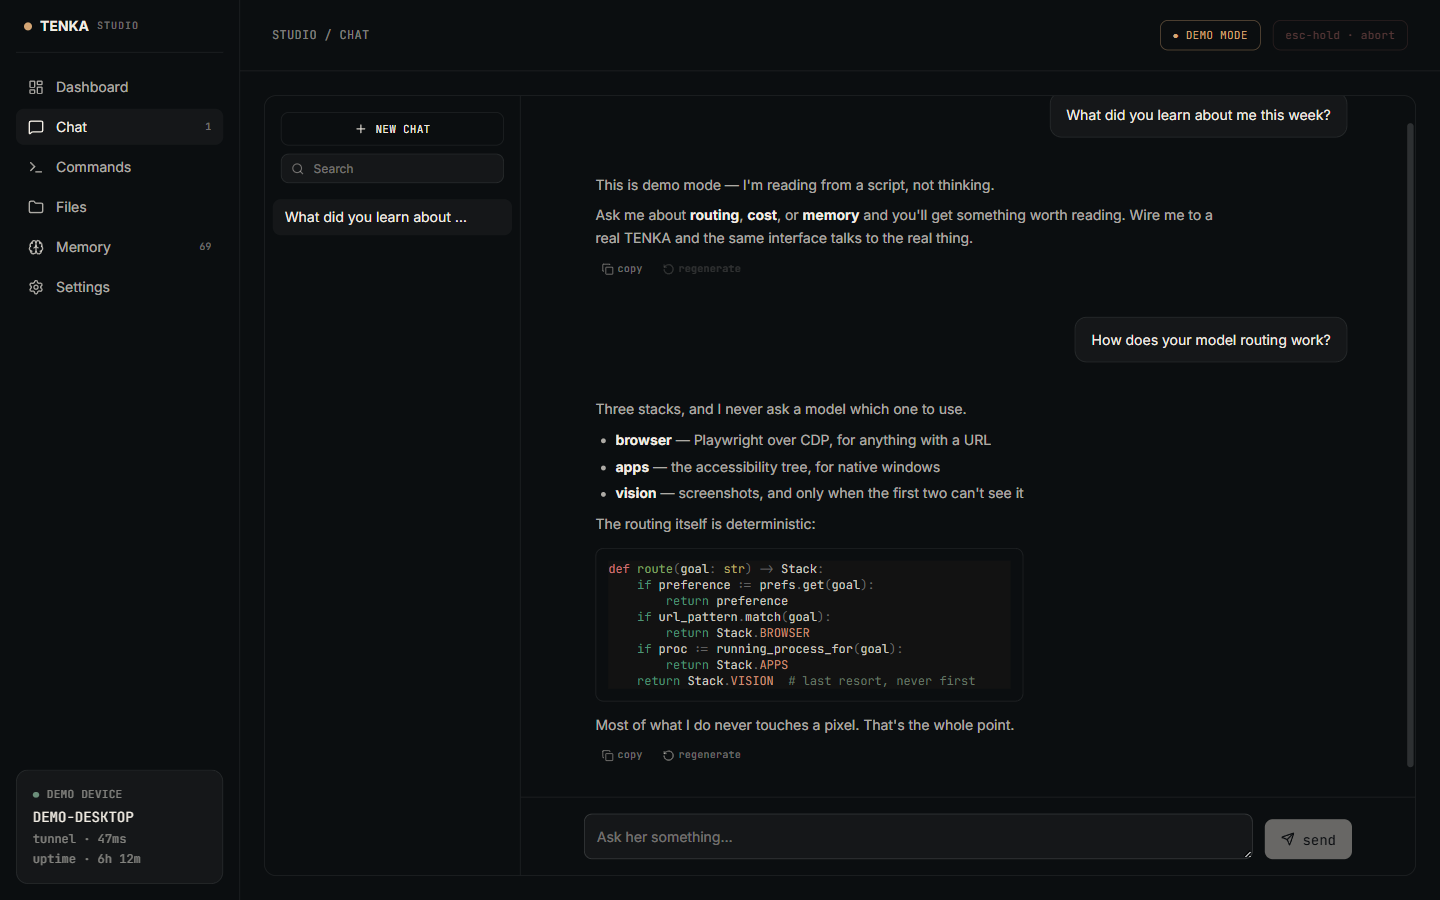
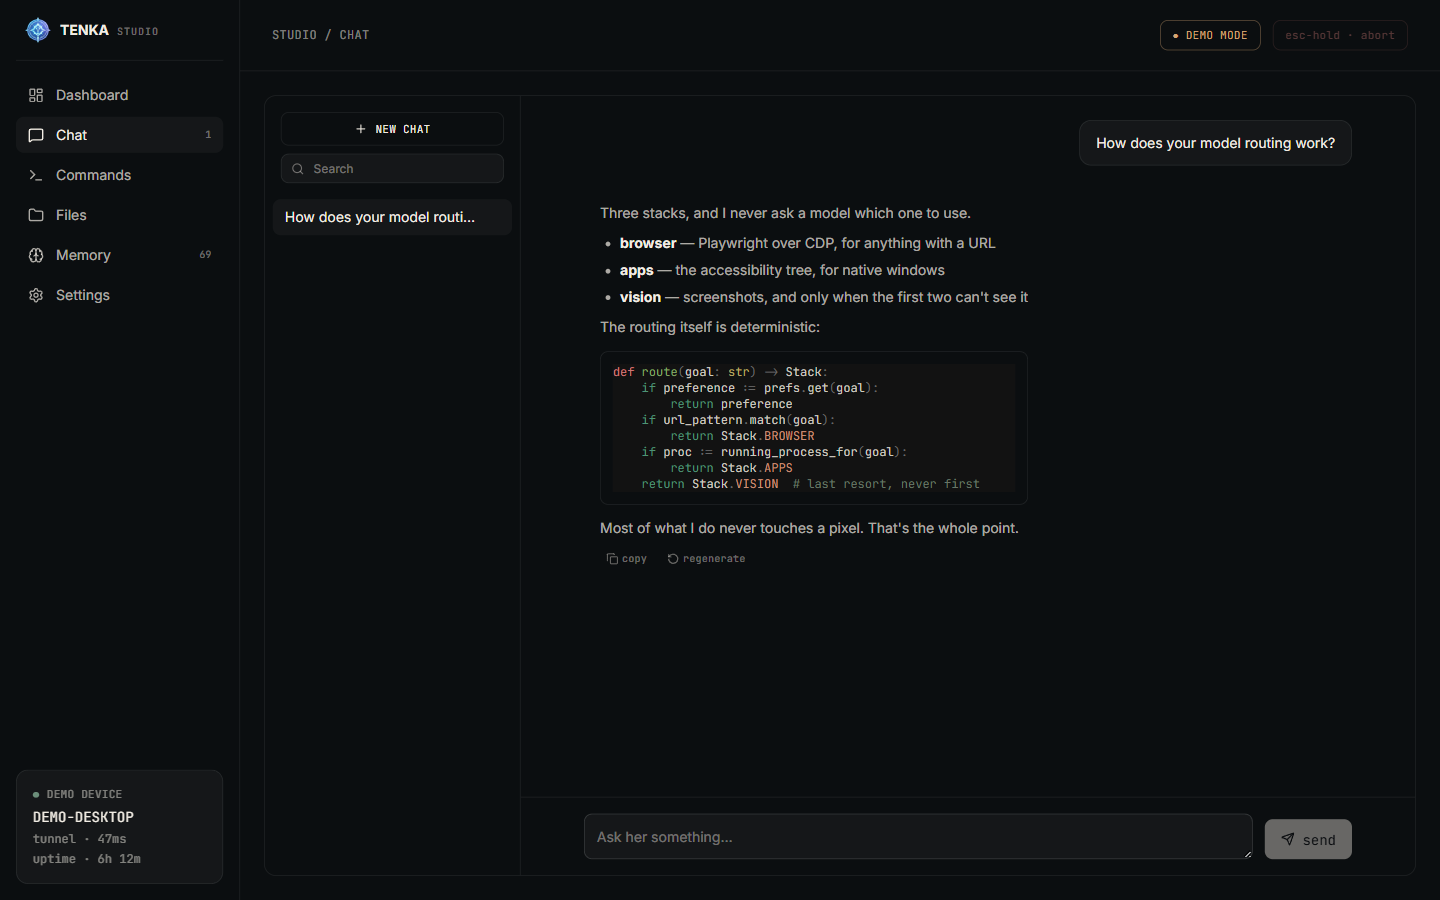
feat: put the mark in the sidebar, beside the wordmark
Replaces the amber dot. Three things went wrong on the way and all three are
worth recording, because each was only visible by looking at the result.

The asset was 56px for a 28px slot. That is exactly 1:1 at dpr 2 and an upscale
at dpr 3, which is where it read as blurred. It is 224px now -- 8x the slot, so
every panel is sampling down.

It also carried the contrast and saturation lift the 16 and 32px favicon frames
use. That treatment exists because the outer ring and the speckles turn to mush
below about 40px; at 28px on a retina panel it only blew the highlights into a
halo. Dropped here, kept in the ICO.

And the crop was a guessed 78% inset, which cut the four star points off. They
reach to within 35px of the source canvas edge, so any fixed percentage clips
them. The crop is now the art's own alpha bounding box, squared around its
centre and asserted to contain that box on all four sides, inset to 94% of the
frame so the mark has a little air rather than sitting flush.

Separately: TENKA and studio were centred, not baselined. `items-center` centres
each child by its own line box, so 14px next to 10px left the smaller word
floating off the wordmark's baseline. The type is now its own
`items-baseline` group with the logo still centred against it -- measured after
the change, both words end on the same pixel row.

A plain <img> because docs/deploy.md forbids next/image in this build, with a
scoped eslint-disable rather than a new warning in a warning-free repo.
[…]

diff --git a/components/shell/Sidebar.tsx b/components/shell/Sidebar.tsx
@@ -35,10 +35,37 @@ export function Sidebar({
     <aside className="hidden h-full w-60 flex-col justify-between border-r border-border bg-bg p-4 lg:flex">
       <div>
         <div className="mb-4 flex items-center gap-2 border-b border-border px-2 pb-4">
-          <span className="h-2 w-2 rounded-full bg-amber" />
-          <span className="font-display text-sm font-bold text-bone">TENKA</span>
-          <span className="font-mono text-[10px] uppercase tracking-widest text-bone-ghost">
-            studio
+          {/*
+            A plain <img>, not next/image: the public demo build forbids it
+            (docs/deploy.md), and there is nothing for a loader to optimise in a
+            single small PNG anyway. The file is 224px for a 28px slot -- 8x, so
+            it is still sampling down rather than up at dpr 3, where a 2x asset
+            went visibly soft. Unlike the 16/32px favicon frames it carries no
+            contrast lift: that was tuned for sizes where the outer ring turns to
+            mush, and at this size it only blew the highlights into a halo.
+          */}
+          {/* eslint-disable-next-line @next/next/no-img-element -- next/image is
+              forbidden in this build; see the comment above. */}
+          <img
+            src="/brand-mark.png"
+            alt=""
+            aria-hidden="true"
+            width={28}
+            height={28}
+            className="h-7 w-7 shrink-0"
+          />
+          {/*
+            The two words share a baseline rather than a centre. `items-center`
+            on the row centres each child by its own line box, and at 14px next
+            to 10px that leaves "studio" floating off the wordmark's baseline --
+            visible as soon as anyone looks closely. The logo still wants
+            centring, so the type is its own baseline-aligned group.
+          */}
+          <span className="flex items-baseline gap-2">
+            <span className="font-display text-sm font-bold leading-none text-bone">TENKA</span>
+            <span className="font-mono text-[10px] uppercase leading-none tracking-widest text-bone-ghost">
+              studio
+            </span>
           </span>
         </div>
         <nav className="flex flex-col gap-1">

diff --git a/README.md b/README.md
@@ -21,7 +21,7 @@
   <img src="https://img.shields.io/badge/Next.js-15-000?logo=nextdotjs&logoColor=white" alt="Next.js 15" />
   <img src="https://img.shields.io/badge/React-19-087ea4?logo=react&logoColor=white" alt="React 19" />
   <img src="https://img.shields.io/badge/TypeScript-strict-3178c6?logo=typescript&logoColor=white" alt="TypeScript" />
-  <img src="https://img.shields.io/badge/tests-1258-3fb950" alt="1258 tests" />
+  <img src="https://img.shields.io/badge/tests-1263-3fb950" alt="1263 tests" />
   <img src="https://img.shields.io/badge/license-Apache--2.0-blue" alt="Apache 2.0" />
 </p>
 
